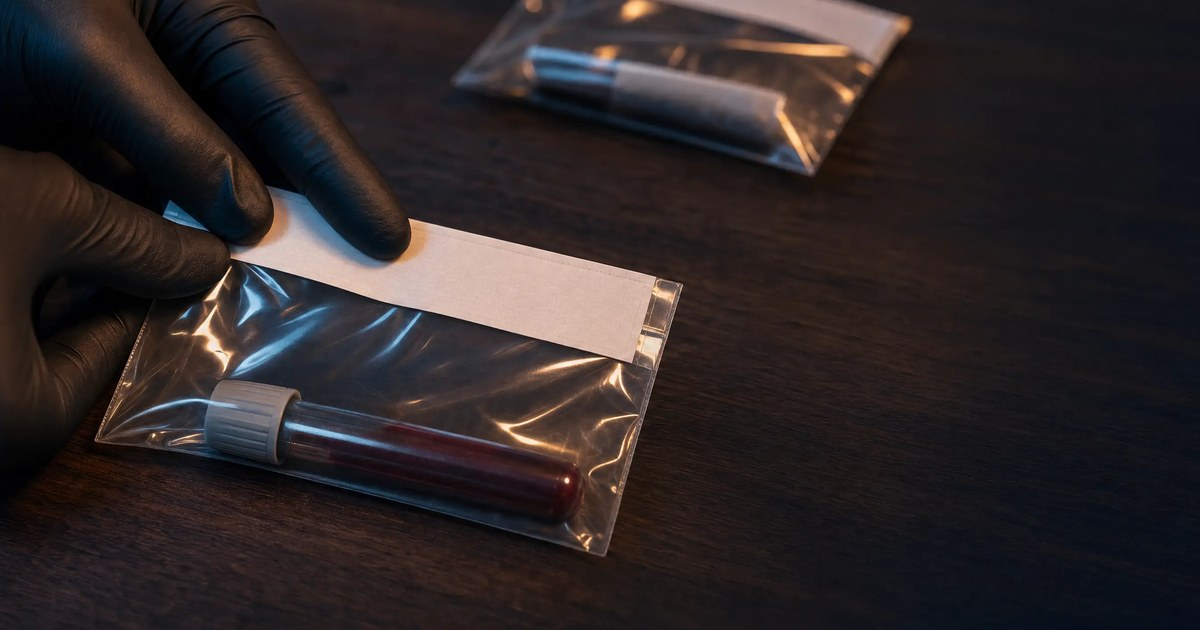
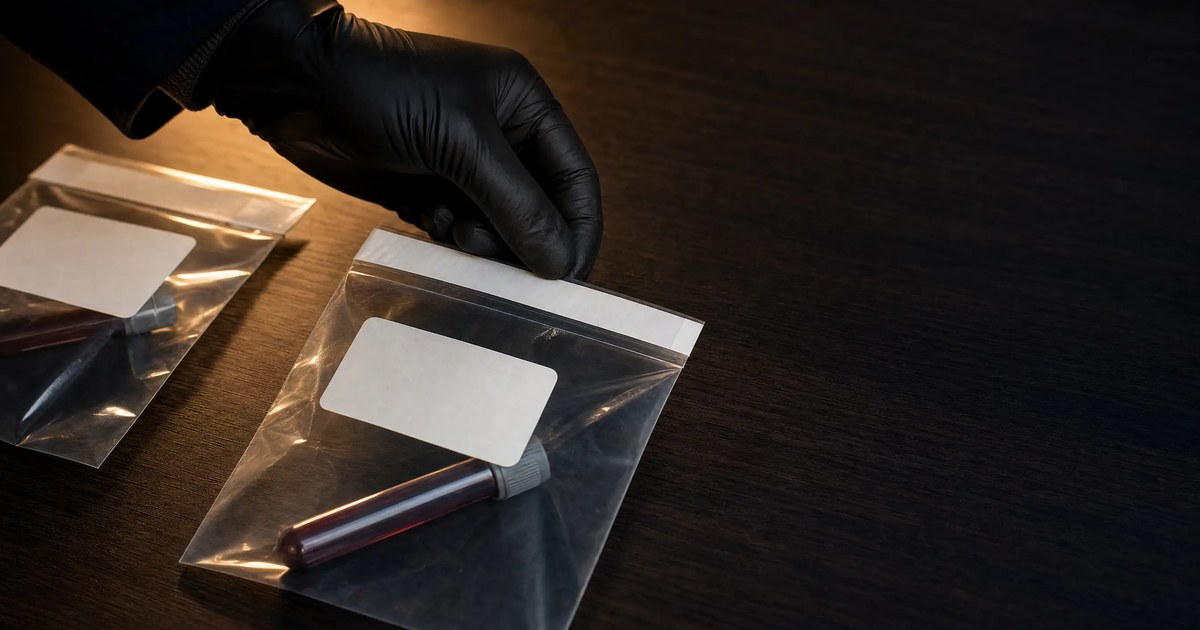
stage(blog): florida-chain-of-custody-blood-drug-evidence-fs-90-901 — unlisted preview (LOJ-271 pipeline, pre-approval)

diff --git a/blog/florida-chain-of-custody-blood-drug-evidence-fs-90-901/index.html b/blog/florida-chain-of-custody-blood-drug-evidence-fs-90-901/index.html
@@ -58,7 +58,7 @@
                 "url": "https://lotterlaw.com/assets/Lotter-Law-logo-02.jpg"
             }
         },
-        "datePublished": "2026-09-26",
+        "datePublished": "2026-09-28",
         "dateModified": "2026-09-28",
         "image": {
             "@type": "ImageObject",
@@ -119,7 +119,7 @@
             <div class="flex items-center text-gray-600 text-sm mb-6">
                 <span>By Jeff Lotter, Criminal Defense Attorney</span>
                 <span class="mx-3">|</span>
-                <time datetime="2026-09-26">September 26, 2026</time>
+                <time datetime="2026-09-28">September 28, 2026</time>
             </div>
             <div class="flex gap-2 flex-wrap">
                 <span class="bg-blue-100 text-blue-800 px-3 py-1 rounded-full text-sm">Criminal Defense</span>
@@ -177,11 +177,11 @@
             </p>
 
             <p>
-                In <a href="https://www.courtlistener.com/opinion/1648323/state-v-miles/" target="_blank" rel="noopener">State v. Miles, 775 So. 2d 950, 954-55 (Fla. 2000)</a>, the Florida Supreme Court found an older version of the rule inadequate. That version had no provision for preserving a blood sample before testing, so the State was not entitled to the statutory presumptions of impairment.
+                In State v. Miles, 775 So. 2d 950 (Fla. 2000), the Florida Supreme Court found that an older version of the rule did not adequately cover preserving, storing, and transporting blood samples. Without that compliance, the State did not get the statutory presumptions of impairment.
             </p>
 
             <p>
-                The rule was amended in 2001. Any challenge should rely on the current text.
+                The rule has been amended since Miles. Any challenge should rely on the current text, not the version the Court reviewed.
             </p>
 
             <p>
@@ -206,7 +206,7 @@
             <h2 class="text-2xl font-bold text-blue-800 mt-10 mb-4">Is a Missing Signature Enough to Exclude the Evidence?</h2>
 
             <p>
-                Usually not. Florida's rule is that "relevant physical evidence is admissible unless there is an indication of probable tampering," as the Florida Supreme Court stated in <a href="https://www.courtlistener.com/opinion/1720367/peek-v-state/" target="_blank" rel="noopener">Peek v. State, 395 So. 2d 492, 495 (Fla. 1980)</a>.
+                Usually not. Since Peek v. State, 395 So. 2d 492 (Fla. 1980), Florida courts have admitted relevant physical evidence unless there is an indication of probable tampering.
             </p>
 
             <p>
@@ -260,11 +260,11 @@
 <h2 class="text-2xl font-bold text-blue-800 mt-10 mb-4">What Does a Real Chain-of-Custody Gap Look Like?</h2>
 
             <p>
-                The 2002 Murray decision shows the difference. An officer testified that he placed a bottle of hand lotion and a nightgown in one bag "in order to keep them together," and the bag was sealed. When the FDLE analyst received it, the lotion was missing, though the bag showed no sign of having been opened. That discrepancy was never explained.
+                The 2002 Murray decision shows the difference. An officer placed a bottle of hand lotion and a nightgown in one bag "in order to keep them together," and the bag was sealed. When the FDLE analyst received it, the lotion was missing, though the bag showed no sign of having been opened.
             </p>
 
             <p>
-                The Court held that this "obvious discrepancy" met the defense's burden of showing a probability of tampering, which shifted the burden to the State. The Court then held that "the trial court erred in finding the challenged evidence admissible" because the State failed to meet that burden. That is a real gap, not a clerical slip.
+                That discrepancy was never explained. The Court held that this "obvious discrepancy" met the defense's burden and shifted the burden to the State. Because the State failed to meet it, "the trial court erred in finding the challenged evidence admissible." That is a real gap, not a clerical slip.
             </p>
 
             <p>
@@ -369,17 +369,9 @@
                     <h4 class="font-semibold text-blue-800 mb-2">Container Weight Cannot Be Counted in Florida Drug Charges | Blair v. State</h4>
                     <p class="text-gray-600 text-sm">The container holding drugs cannot be included in the trafficking weight under Florida law. This distinction can mean years of difference in…</p>
                 </a>
-                <a href="/blog/corpus-delicti-authority-vs-evidence-dui-trial/" class="block p-4 bg-white rounded-lg border hover:shadow-md transition-shadow">
-                    <h4 class="font-semibold text-blue-800 mb-2">DUI Acquittal: Missing Evidence Creates Reasonable Doubt</h4>
-                    <p class="text-gray-600 text-sm">Jury acquitted our DUI client due to missing witnesses, no video, and evidence gaps. Learn how lack of evidence creates reasonable doubt in …</p>
-                </a>
-                <a href="/blog/motion-in-limine-florida-criminal-case/" class="block p-4 bg-white rounded-lg border hover:shadow-md transition-shadow">
-                    <h4 class="font-semibold text-blue-800 mb-2">Motion in Limine in Florida Criminal Cases, Explained</h4>
-                    <p class="text-gray-600 text-sm">Learn what a motion in limine does in a Florida criminal case: how it differs from a motion to suppress, what evidence it can exclude, and h…</p>
-                </a>
-                <a href="/blog/restitution-evidence-florida/" class="block p-4 bg-white rounded-lg border hover:shadow-md transition-shadow">
-                    <h4 class="font-semibold text-blue-800 mb-2">Show Me the Contract: Challenging Inflated Restitution in Florida Criminal Cases</h4>
-                    <p class="text-gray-600 text-sm">A victim's testimony alone isn't enough to prove restitution amounts in Florida. A 2025 appellate ruling strengthens defendants' rights to c…</p>
+                <a href="/blog/florida-chain-of-custody-blood-drug-evidence-fs-90-901/" class="block p-4 bg-white rounded-lg border hover:shadow-md transition-shadow">
+                    <h4 class="font-semibold text-blue-800 mb-2">Florida Chain of Custody for Blood and Drugs</h4>
+                    <p class="text-gray-600 text-sm">Florida law makes the State prove blood and drug evidence is what it claims. See how chain of custody works, what a real gap looks like, and…</p>
                 </a>
             </div>
         </div>
